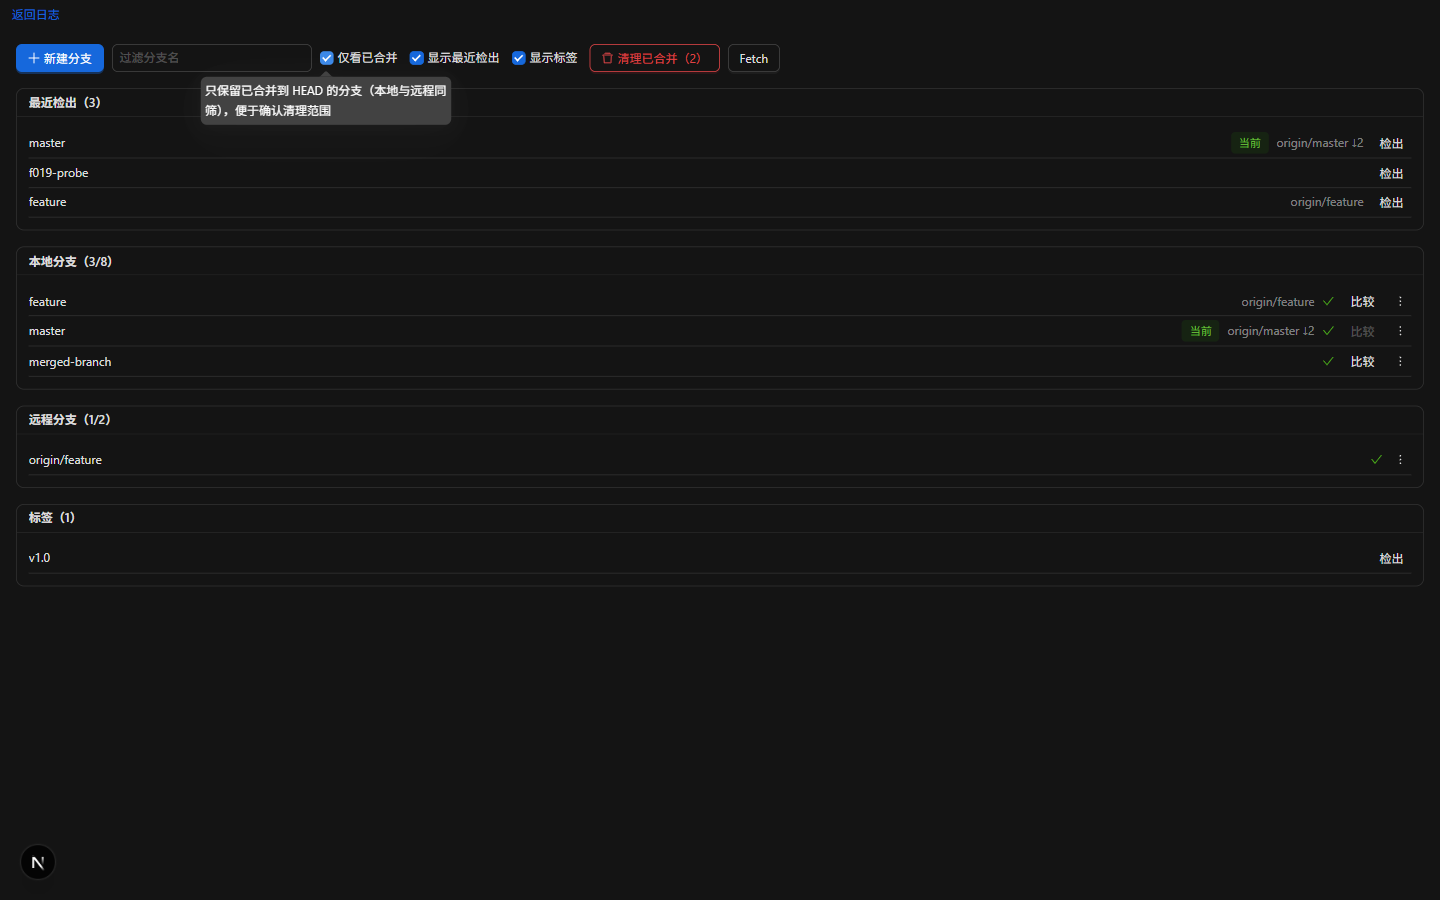
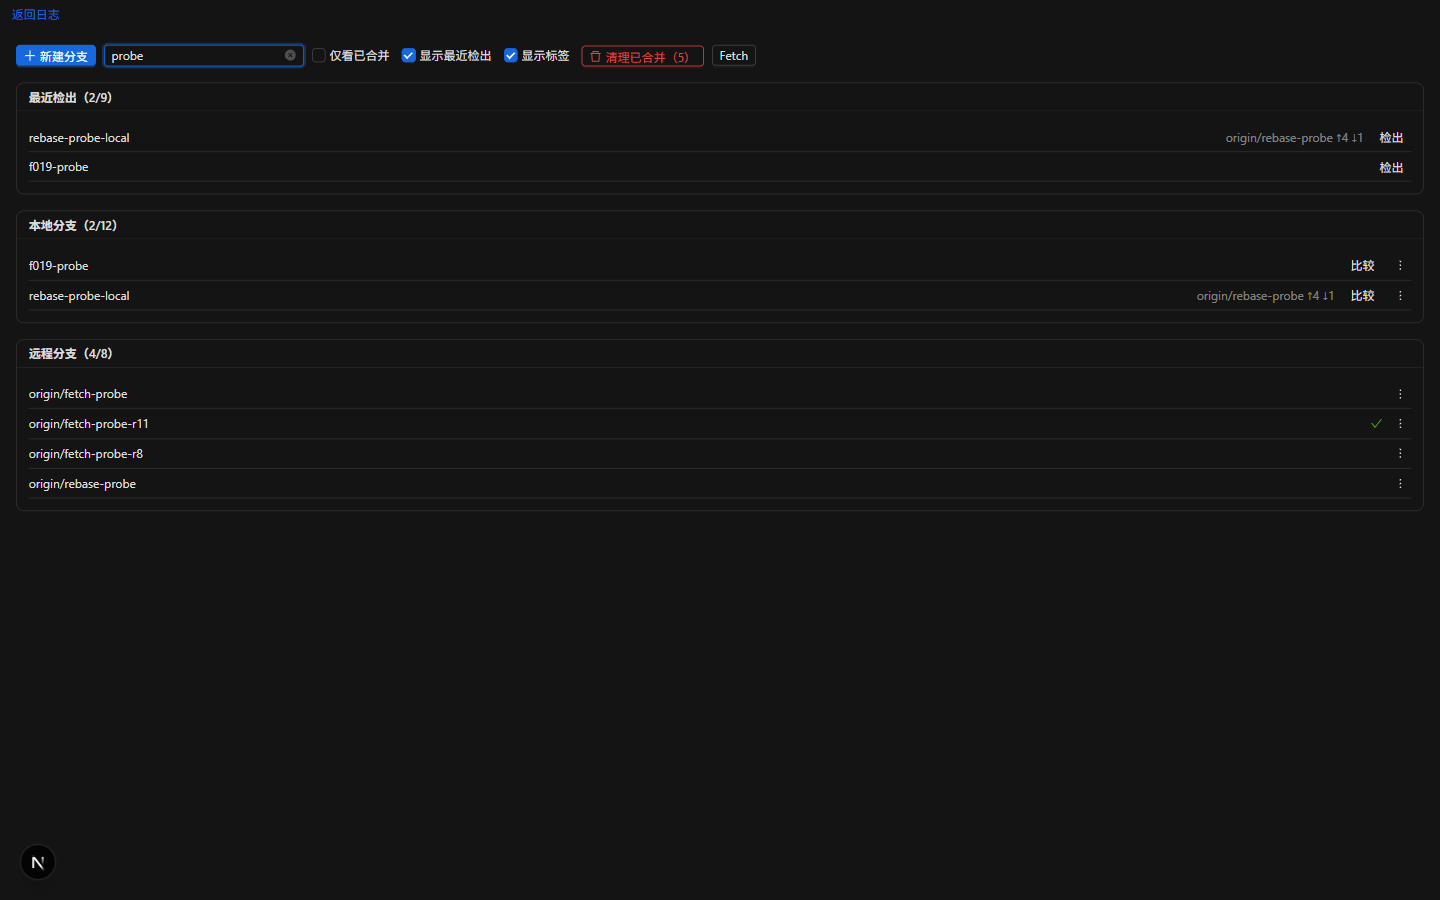
feat(ui): 分支页工具栏过滤框改 small（弹窗内组件保持默认档）
按用户指出的元素（DOM: span.ant-input-affix-wrapper）把 branch-panel 工具栏过滤框 branch-filter 置 size=small —— 弹窗外唯一改动点；新建分支/重命名/设上游/检出并变基/与工作树差异等 Modal 内的输入与底部按钮、以及行内 Popconfirm 的确定取消均维持默认档（用户决策更正）。

实测：包裹元素带 ant-input-affix-wrapper-sm、input 带 ant-input-sm（包裹 22px / 输入 20px，与同排 small 按钮 21px 同档；改前默认档 28px）。守卫：branch-panel.test.tsx「过滤框为 small 档，Modal 内输入保持默认档」（ui 用例 693 → 694）。

证据同步：branch-01.png 按当前夹具重拍（四组 9/12/8/3；过滤 probe → 本地 2/12、远程 4/8、最近检出 2/9；仅看已合并 → 本地 7/12、远程 4/8，均与 CLI 一致），F-062 行内计数同步更新；文档新增 §5.22 变更③，并记下仍非 small 的存量（约 62 处带 size 的控件，另有 13 处 Radio 属 antd 设计例外）。

diff --git a/packages/client/ui/src/composite/branch-panel.test.tsx b/packages/client/ui/src/composite/branch-panel.test.tsx
@@ -290,6 +290,15 @@ describe('BranchPanel 过滤/查找已合并', () => {
     expect(screen.getByText('远程分支（0/1）')).toBeInTheDocument();
   });
 
+  // UI 口径（2026-09-12，用户决策）：**弹窗以外**的分支页控件用 small 档；Modal 内的控件保持默认档
+  it('过滤框为 small 档，Modal 内输入保持默认档', async () => {
+    render(<BranchPanel branches={LIST} {...makeHandlers()} />);
+    expect(screen.getByTestId('branch-filter')).toHaveClass('ant-input-sm');
+    fireEvent.click(screen.getByTestId('create-branch-button'));
+    expect(await screen.findByTestId('create-name')).not.toHaveClass('ant-input-sm');
+    expect(screen.getByTestId('create-start-point')).not.toHaveClass('ant-input-sm');
+  });
+
   it('「仅看已合并」：只保留 mergedIntoHead=true 的条目（含远程）', () => {
     render(<BranchPanel branches={LIST} {...makeHandlers()} />);
     fireEvent.click(screen.getByRole('checkbox', { name: /仅看已合并/ }));

diff --git a/packages/client/ui/src/composite/branch-panel.tsx b/packages/client/ui/src/composite/branch-panel.tsx
@@ -619,6 +619,7 @@ export function BranchPanel({
             data-testid="branch-filter"
             placeholder="过滤分支名"
             allowClear
+            size="small"
             style={{ width: 200 }}
             value={filterText}
             onChange={(e) => setFilterText(e.target.value)}

diff --git a/docs/e2e-verification.md b/docs/e2e-verification.md
@@ -246,7 +246,7 @@
 
 | 编号 | 功能点 | MCP 冒烟操作（模拟人工） | 预期最终正确效果（截图判定） | 结果 | 截图 |
 |------|--------|--------------------------|------------------------------|------|------|
-| F-062 | 分组（本地/远程/最近检出/标签）与过滤 | 观察四组 → 文本过滤 → 「仅看已合并」开关 | 四组正确；过滤与已合并开关生效 | ✅ | branch-01.png（四组：最近检出 3 / 本地 8 / 远程 2 / 标签 1；文本过滤 `feat` → 1/3、1/8、1/2；仅看已合并 → 本地 3/8、远程 1/2，与 CLI `git branch --merged HEAD`（feature/master/merged-branch = 3）与 `git branch -r --merged HEAD`（origin/feature = 1）逐项一致，D-19 的远程侧未回归） | |
+| F-062 | 分组（本地/远程/最近检出/标签）与过滤 | 观察四组 → 文本过滤 → 「仅看已合并」开关 | 四组正确；过滤与已合并开关生效 | ✅ | branch-01.png（**2026-09-12 按当前夹具重拍**：四组 = 最近检出 9 / 本地 12 / 远程 8 / 标签 3；文本过滤 `probe` → 最近检出 2/9、本地 2/12、远程 4/8（标签组 0 命中即整组不渲染），逐项吻合 CLI——本地 `f019-probe`/`rebase-probe-local` = 2、远程 `origin/fetch-probe`/`-r8`/`-r11`/`rebase-probe` = 4；「仅看已合并」→ 本地 7/12、远程 4/8 = CLI `git branch --merged HEAD`（7，含当前分支 `rebase-topic`）与 `git branch -r --merged HEAD`（4），D-19 的远程侧未回归。R23 首轮记录的四组/过滤计数（本地 8、过滤 `feat` 等）属重建前的旧夹具，以本次实测为准；同图另可见工具栏过滤框已随面板统一为 small 档） | |
 | F-063 | 行内信息（current/上游徽标/已合并图标） | 观察各分支行 | current 标记、ahead/behind 徽标、已合并绿勾正确 | ✅ | branch-02.png（`master`「当前」+ 上游徽标 `origin/master ↓2` + 已合并绿勾；绿勾集合与 CLI `--merged` 完全一致；未合并的 `diverge-test` 无勾） | |
 | F-064 | 创建/删除/重命名/设上游 | 新建 Modal（起始点 + 检出开关）→ 删除（未合并 Popconfirm force 提示）→ 重命名 → 设上游 | 各操作 CLI `branch` 互证 | ✅ | branch-03.png（建 `smoke-created@diverge-test`（`3b0244b`）→ 改名 `smoke-renamed`（旧名 `show-ref` 失败）→ 设上游 `origin/master`（`config branch.*.merge=refs/heads/master` 落盘）→ 未合并分支删除 Popconfirm「该分支未合并，删除将使用强制删除」→ 确认后分支消失；四步 CLI 互证） | |
 | F-065 | 检出三态（既有/新建并检出/detached） | 检出既有分支 → 新建并检出 → 标签行「检出」（detached） | 三态切换正确（CLI HEAD 互证） | ✅ | branch-04.png（三态：检出既有 `diverge-test` → `HEAD=3b0244b`；「新建并检出」`smoke-new-checkout` 入最近检出；标签 `v1.0` 检出 → CLI `## HEAD (no branch)` 指向 `761961d`，界面该行无「当前」标记） | |
@@ -846,6 +846,15 @@
 - 解析：`apps/web-next/app/providers.tsx` 用 `matchMedia('(prefers-color-scheme: dark)')` 把 `auto` 解析成实际明暗并**订阅系统变化**（切系统主题即时跟随，无需刷新）；`data-theme` 恒为解析后的 `light`/`dark`（globals.css / Monaco / 布局断言只认这两值），另写 `data-theme-preference` 保留偏好原值，便于区分「跟随系统」与「显式指定」。
 - 实测：`PUT {theme:'auto'}` → 设置页选中「自动」、`data-theme-preference=auto`；浏览器偏好为浅色时 `data-theme=light`；`page.emulateMedia({colorScheme:'dark'})` → **不刷新页面**即变 `data-theme=dark`、body `rgb(20,20,20)`，切回浅色恢复。
 - **已知缺口（既有，本轮未改）**：web-koa 的 SPA 仍固定暗色（`apps/web-koa/src/main.tsx` 硬编码 `theme.darkAlgorithm`），故设置页的主题控件在 koa 侧点了不生效；需要时另行接线。
+
+**变更③ 分支页面板「弹窗外」控件统一 small（2026-09-12，用户指出具体元素后）**
+
+- 触发：用户在内置浏览器中选中分支页工具栏的过滤输入（`span.ant-input-affix-wrapper`）要求改 small；随后**决策更正**——**弹窗内的组件不改 size，只改弹窗以外的**（新建分支/重命名/设上游/检出并变基/与工作树差异等 Modal 内的输入与底部按钮，以及行内 Popconfirm 的确定/取消，均维持默认档）。
+- 改动（`packages/client/ui/src/composite/branch-panel.tsx`）：仅**弹窗外**的工具栏过滤框 `branch-filter` 置 `size="small"`（`packages/client/ui/src/composite/branch-panel.tsx` 唯一改动点）。
+- 实测（浏览器 DOM）：`[data-testid="branch-filter"]` 的包裹元素带 `ant-input-affix-wrapper-sm`、内部 `<input>` 带 `ant-input-sm`（本机实测包裹高 22px、输入高 20px，与同排 small 按钮 21px 同档；改前为默认档 28px）；Modal 内 `create-name` / `create-start-point` 与 Popconfirm 按钮仍为默认档。
+- 回归守卫：`packages/client/ui/src/composite/branch-panel.test.tsx`「过滤框为 small 档，Modal 内输入保持默认档」（ui 用例 693 → **694**）。
+- 截图影响：`branch-01.png` 已按当前夹具重拍（计数与 CLI 互证见 §4.7 F-062）；`branch-02…09` 只在顶部工具条顺带露出该输入（仍是改前的默认档），行内断言的语义与计数不受影响。
+- **仍非 small 的存量（供后续统一时参考）**：`packages/client/ui/src` 内约 **62** 处带 `size` 属性的控件未显式指定（Input 32 / Button 17 / Input.TextArea 4 / Select 4 / Segmented 3 / Input.Password 1 / Switch 1，集中在 `log-page`、`repo-page`、`patch`、`worktree`、`remote`、`tag`、`search` 等）；另有 13 处 `Radio` 属 antd 无 `size` 属性的设计例外（与 `Checkbox` 同类）。
 
 **截图与回归**
 
